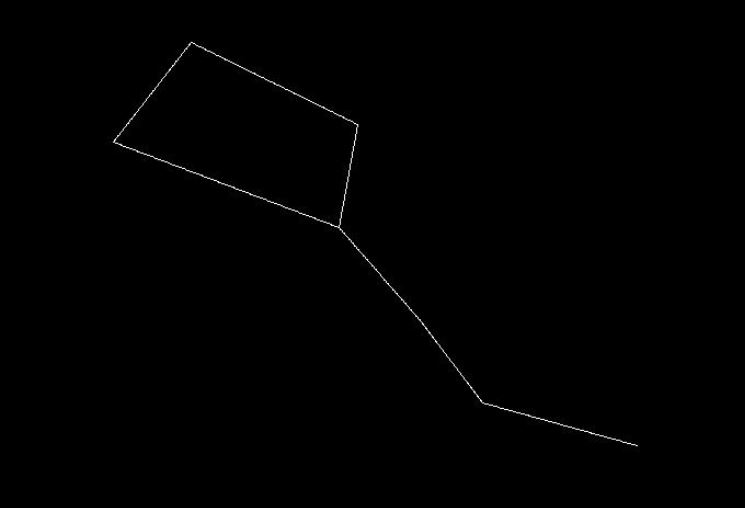
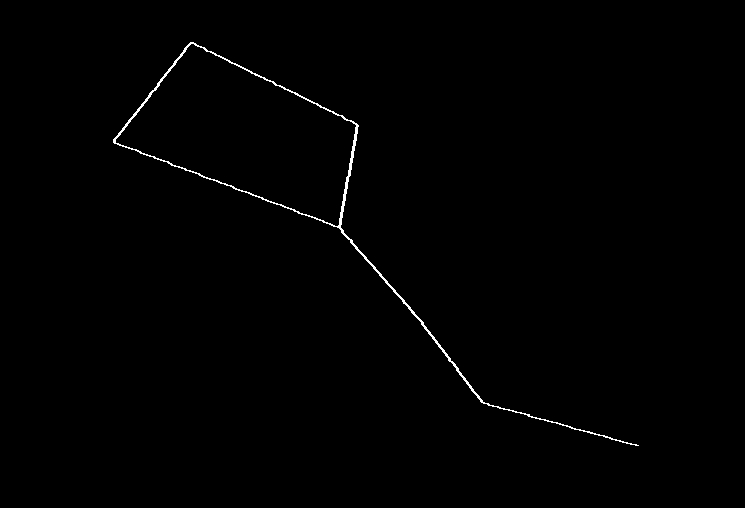
Final settings

diff --git a/main.m b/main.m
@@ -1,7 +1,7 @@
 function [output] = main(input_label, input, angleTolerance)
 
 %the template for the GHT
-input_template = rgb2gray(imread('template2.jpg'));
+input_template = rgb2gray(imread('template_neu.jpg'));
 
 %how many stars are in the constellation?
 global starsCount;
@@ -165,12 +165,12 @@ if sum(solutions(1, :)) > 0
                     yn = round(x1 +(x2 - x1)*n);
                     xn = round(y1 +(y2 - y1)*n);
                     test(xn,yn) = 1;
-%                         for  z = 1 : round((sqrt(size(input_label, 1) * size(input_label, 2))/100))
-%                             test(xn - z,yn) = 1;
-%                             test(xn + z,yn) = 1;
-%                             test(xn,yn - z) = 1;
-%                             test(xn,yn + z) = 1;
-%                         end
+                         for  z = 1 : round((sqrt(size(input_label, 1) * size(input_label, 2))/100))
+                             test(xn - z,yn) = 1;
+                             test(xn + z,yn) = 1;
+                             test(xn,yn - z) = 1;
+                             test(xn,yn + z) = 1;
+                         end
                     end
             end
         end

diff --git a/Generalized_hough_transform.m b/Generalized_hough_transform.m
@@ -37,7 +37,7 @@ Rtable = zeros(MaxAnglesBins, MaxPointsPerangle, 2); % in this case 30 x 6000 x 
 
 
 % fill the angle bins with points in the Rtable
-for i = 1 : 1 : pointsInTemplate(1)
+for i = 1 : 2 : pointsInTemplate(1)
     bin = round((GradientMap(y(i), x(i)) / pi) * (MaxAnglesBins - 1)) + 1; % transform from continuous gradient angles to discrete angle bins and 
     PointCounter(bin) = PointCounter(bin) + 1;% add one to the number of points in the bin
     if (PointCounter(bin) > MaxPointsPerangle)
@@ -62,7 +62,7 @@ end;
 GradientMap = gradient_direction(input); % create gradient direction map of the input
 Ss = size(input); % Size of the main image input
 houghspace = zeros(size(input));% the hough space is assumed to be of the same size as the image
-    for i = 1 : 1 : pointsInEdgeImage(1)
+    for i = 1 : 2 : pointsInEdgeImage(1)
           bin = round((GradientMap(y(i), x(i))/pi) * (MaxAnglesBins-1)) + 1; % transform from continues gradient angles to discrete angle bins
           for point = 1 : 1 : PointCounter(bin)
               ty = Rtable(bin, point, 1) + y(i);

diff --git a/gui.m b/gui.m
@@ -1,3 +1,3 @@
 clear all
-input = imread('Datenbank/input002.jpg');
+input = imread('input_maxg_3.jpg');
 gui_function(input);
